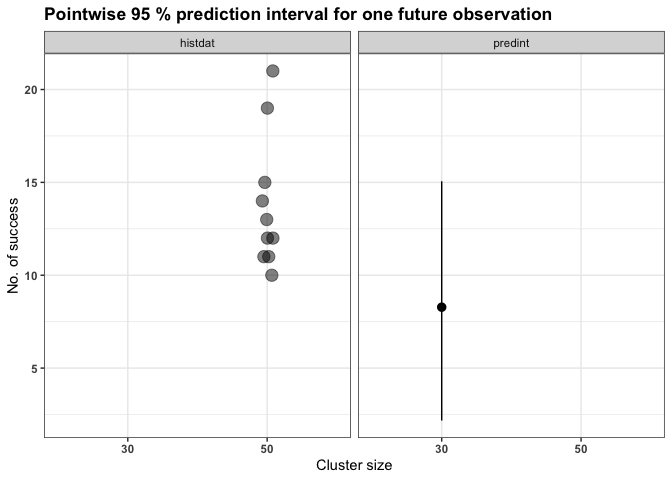
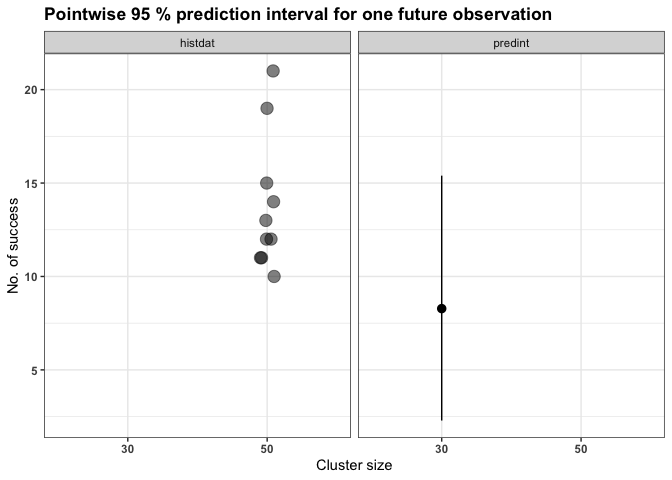
version 2.2.1

diff --git a/README.md b/README.md
@@ -118,12 +118,12 @@ pi_m1
 #> Pointwise 95 % prediction interval for one future observation 
 #>  
 #>      lower    upper newsize
-#> 1 2.176397 15.05858      30
+#> 1 2.288892 15.39607      30
 ```
 
 The mortality of a concurrent control group is in line with the
-historical knowledge, if it is not lower than 2.176 or higher than
-2.176.
+historical knowledge, if it is not lower than 2.289 or higher than
+2.289.
 
 A graphical overview about the prediction interval can be given with
 

diff --git a/NEWS.md b/NEWS.md
@@ -1,5 +1,3 @@
-# predint 2.2.0
-
 # predint 1.0.0
 
 * This is the first version of predint
@@ -46,4 +44,10 @@ functions are lmer_pi_unstruc(), lmer_pi_futvec() and lmer_pi_futmat().
   - neg_bin_pi
 
 * plot works now with uncalibrated PI
+
+
+# predint 2.1.1
+
+* Small bugfix in the test-suite
+
 
